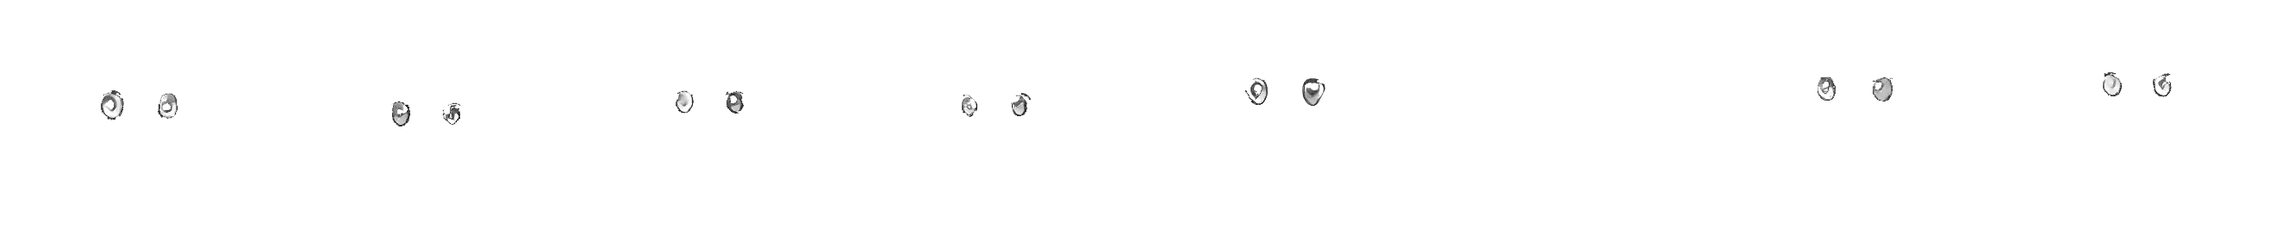
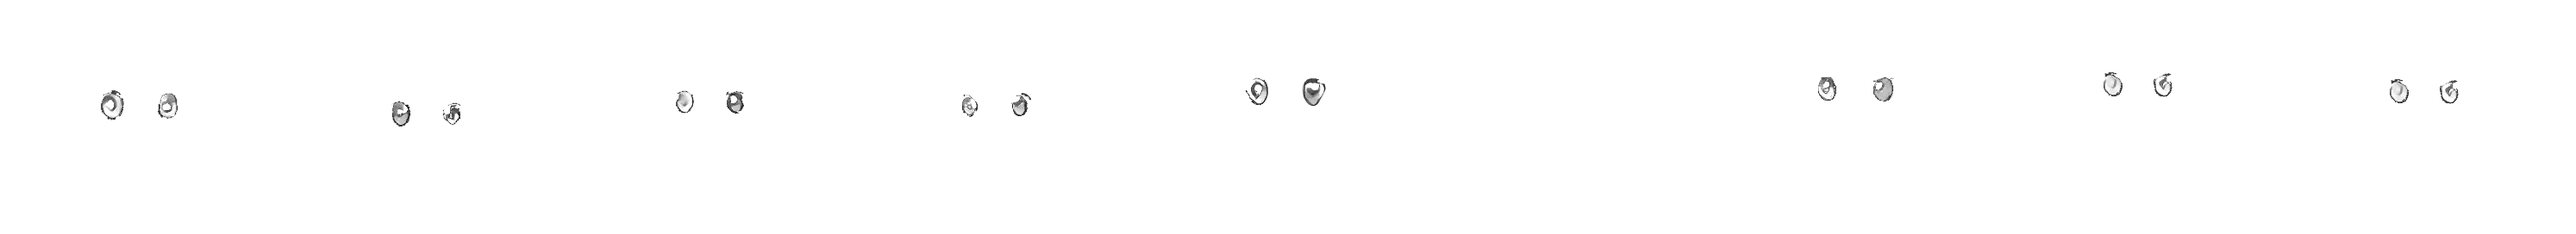
feat(hồ sơ): tóc bob vẽ tay như tóc ngắn; khuôn mặt đã chọn dán lên tranh (không còn đổi sang SVG); đổi tóc/áo giữ mặt
- Đầu ô 8: tóc bob trơn từ cô gái kimono (soi gương nửa trái bỏ hoa + búi, nối đỉnh tròn); mặt nạ tóc kimono bắt cả vệt bóng
- PaintedFaceSwap: dán faces.webp theo mắt, chỉ trong vùng da mặt (char-facemask.webp) nên không đè tóc/mũ
- DecorStudio: đổi tóc/áo/phụ kiện khi chưa chọn mặt → giữ mặt đang hiện (currentFaceId)
- Test: tóc bob, dán mặt, currentFaceId; E2E chọn tóc bob

diff --git a/lib/game/presets.ts b/lib/game/presets.ts
@@ -3,7 +3,7 @@
  * Món thiếu mua cả bộ qua `buyBundle` (một giao dịch, được cả bộ hoặc không món nào).
  */
 import type { Slot } from "./items";
-import { BODIES, HEAD_ANCHOR } from "./painted-data";
+import { BODIES, EYE_GEO, HEAD_ANCHOR } from "./painted-data";
 
 export interface Preset {
   id: string;
@@ -50,42 +50,64 @@ export function faceIndexOf(config: LookConfig): number {
 }
 
 export interface PaintedLook {
-  /** Ô tranh trong characters.webp (đầu / cả nhân vật) */
+  /** Ô đầu / cả nhân vật: 0–7 = characters.webp, 8 = tóc bob không hoa (chỉ có trong char-heads.webp) */
   index: number;
+  /** Mẫu gốc của ô (màu tóc/mắt/mặt/trang phục gốc) */
+  base: number;
   /** Thân thay theo trang phục: ô trong char-bodies.webp; null = giữ nguyên tranh */
   body: number | null;
+  /** Khuôn mặt dán lên tranh (chỉ số FACES); null = mặt của tranh */
+  face: number | null;
   /** itemId màu tóc / màu mắt cần tô lại trên tranh; null = giữ màu tranh */
   hairColor: string | null;
   eyes: string | null;
 }
 
+/** Đầu vẽ sẵn: ô tranh → kiểu tóc + phụ kiện của đầu đó; ô 8 = đầu cô gái kimono bỏ hoa (tóc bob trơn) */
+const HEADS: { cell: number; base: number; hair: string | null; accessory: string | null }[] = [
+  ...[0, 1, 4, 6, 7].map((i) => ({ cell: i, base: i, hair: PRESETS[i].items.hair ?? null, accessory: PRESETS[i].items.accessory ?? null })),
+  { cell: 8, base: 7, hair: "hair-bob", accessory: null },
+];
+
 /**
  * Vẽ bằng tranh của design (thay vì nhân vật SVG):
  * - trang phục liền đầu (hoodie tai mèo, giáp hiệp sĩ, đồ phi hành gia) → nguyên tranh mẫu đó;
- * - còn lại: kiểu tóc + phụ kiện trùng một mẫu lộ đầu (và mặt chưa chọn khác) → đầu của mẫu đó + thân theo trang phục
+ * - còn lại: kiểu tóc + phụ kiện trùng một đầu vẽ sẵn → đầu đó + thân theo trang phục
  *   (thân có sẵn hoặc trang phục tạo thêm trong char-bodies.webp), cổ ghép đúng đường cằm.
+ * Khuôn mặt đã chọn khác mặt của tranh → dán mặt đó lên vùng da mặt của tranh (không đè tóc/mũ).
  * Màu tóc / màu mắt khác mẫu thì tô lại ngay trên tranh.
  */
 export function paintedLook(config: LookConfig): PaintedLook | null {
   const outfit = config.outfit ?? null;
-  const recolor = (index: number, body: number | null): PaintedLook => {
-    const p = PRESETS[index].items;
+  const make = (index: number, base: number, body: number | null): PaintedLook => {
+    const p = PRESETS[base];
+    const fi = config.face && config.face !== p.id && index in EYE_GEO ? FACE_IDS.indexOf(config.face) : -1;
+    const eyeBase = fi >= 0 ? PRESETS.find((x) => x.id === FACE_IDS[fi])?.items.eyes : p.items.eyes;
     return {
       index,
+      base,
       body,
-      hairColor: config.hairColor && config.hairColor !== p.hairColor ? config.hairColor : null,
-      eyes: config.eyes && config.eyes !== p.eyes ? config.eyes : null,
+      face: fi >= 0 ? fi : null,
+      hairColor: config.hairColor && config.hairColor !== p.items.hairColor ? config.hairColor : null,
+      eyes: config.eyes && config.eyes !== eyeBase ? config.eyes : null,
     };
   };
   const whole = PRESETS.findIndex((p, i) => !(i in HEAD_ANCHOR) && p.items.outfit === outfit);
-  if (whole >= 0) return recolor(whole, null);
-  const head = PRESETS.findIndex(
-    (p, i) => i in HEAD_ANCHOR && faceFits(config, p) && (["hair", "accessory"] as const).every((k) => (config[k] ?? null) === (p.items[k] ?? null)),
-  );
-  if (head < 0) return null;
-  if (PRESETS[head].items.outfit === outfit) return recolor(head, null);
+  if (whole >= 0) return make(whole, whole, null);
+  const head = HEADS.find((h) => h.hair === (config.hair ?? null) && h.accessory === (config.accessory ?? null));
+  if (!head) return null;
+  if (head.cell < PRESETS.length && PRESETS[head.cell].items.outfit === outfit) return make(head.cell, head.base, null);
   const body = BODIES.findIndex((b) => b.outfit === outfit);
-  return body < 0 ? null : recolor(head, body);
+  return body < 0 ? null : make(head.cell, head.base, body);
+}
+
+/** Khuôn mặt đang hiện của cấu hình (id trong FACES) — để đổi tóc / áo vẫn giữ mặt; null nếu mặt bị che (nhà du hành, hiệp sĩ) */
+export function currentFaceId(config: LookConfig): string | null {
+  const look = paintedLook(config);
+  if (!look) return FACES[faceIndexOf(config)].id;
+  if (look.face !== null) return FACES[look.face].id;
+  const id = PRESETS[look.base].id;
+  return FACE_IDS.includes(id) ? id : null;
 }
 
 /** Chỉ số mẫu nhân vật mà cấu hình trùng khớp hoàn toàn (tóc, màu tóc, mắt, trang phục, phụ kiện, mặt); -1 nếu tự chỉnh khác mẫu */

diff --git a/tests/game/painted-look.test.ts b/tests/game/painted-look.test.ts
@@ -5,7 +5,7 @@ import { test, describe } from "node:test";
 import assert from "node:assert/strict";
 import { existsSync } from "node:fs";
 import path from "node:path";
-import { FACES, FACE_IDS, PRESETS, faceIndexOf, paintedLook, presetIndexOf } from "@/lib/game/presets";
+import { FACES, FACE_IDS, PRESETS, currentFaceId, faceIndexOf, paintedLook, presetIndexOf } from "@/lib/game/presets";
 import { sanitizeAvatar } from "@/lib/game/avatar";
 import { BODIES } from "@/lib/game/painted-data";
 import { ITEMS } from "@/lib/game/items";
@@ -15,13 +15,13 @@ const student = preset("preset-student").items;
 
 describe("paintedLook — tô màu trên tranh mẫu", () => {
   test("trùng mẫu hoàn toàn → tranh gốc, không tô", () => {
-    assert.deepEqual(paintedLook(student), { index: 0, body: null, hairColor: null, eyes: null });
+    assert.deepEqual(paintedLook(student), { index: 0, base: 0, body: null, face: null, hairColor: null, eyes: null });
     assert.equal(presetIndexOf(student), 0);
   });
 
   test("chỉ đổi màu tóc / màu mắt → vẫn là tranh Học sinh nam, tô lại màu (lỗi cũ: chuyển sang nhân vật SVG khác hẳn)", () => {
     const cfg = { ...student, hairColor: "hc-pink", eyes: "eye-blue" };
-    assert.deepEqual(paintedLook(cfg), { index: 0, body: null, hairColor: "hc-pink", eyes: "eye-blue" });
+    assert.deepEqual(paintedLook(cfg), { index: 0, base: 0, body: null, face: null, hairColor: "hc-pink", eyes: "eye-blue" });
     assert.equal(presetIndexOf(cfg), -1, "không còn trùng mẫu hoàn toàn → ô mẫu không báo Đang dùng");
   });
 
@@ -49,9 +49,29 @@ describe("paintedLook — tô màu trên tranh mẫu", () => {
     assert.equal(paintedLook({ ...student, accessory: "acc-crown" }), null);
   });
 
-  test("chọn mặt khác mặt của mẫu → không vẽ tranh mẫu; chọn đúng mặt mẫu → vẫn tranh", () => {
-    assert.equal(paintedLook({ ...student, face: "preset-kimono" }), null);
+  test("tóc bob không cài hoa → đầu vẽ tóc bob trơn (ô 8), không ra nhân vật SVG (lỗi cũ: tóc bob xấu hơn tóc ngắn)", () => {
+    const bob = paintedLook({ ...student, hair: "hair-bob", outfit: "outfit-hoodie", hairColor: "hc-blonde", face: "preset-student" });
+    assert.equal(bob?.index, 8);
+    assert.equal(PRESETS[bob!.base].id, "preset-kimono");
+    assert.equal(BODIES[bob!.body!].outfit, "outfit-hoodie");
+    assert.equal(bob?.face, FACE_IDS.indexOf("preset-student"), "giữ mặt học sinh trên tóc bob");
+    assert.equal(bob?.hairColor, "hc-blonde");
+    assert.equal(paintedLook({ ...preset("preset-kimono").items })?.index, 7, "cài hoa → nguyên tranh kimono");
+  });
+
+  test("currentFaceId: mặt đang hiện (để đổi tóc / áo vẫn giữ mặt)", () => {
+    assert.equal(currentFaceId(student), "preset-student");
+    assert.equal(currentFaceId({ ...student, face: "preset-gamer", outfit: "outfit-tee" }), "preset-gamer");
+    assert.equal(currentFaceId(preset("preset-astro").items), null);
+  });
+
+  test("chọn mặt khác mặt của mẫu → dán mặt đó lên tranh (không đổi sang SVG); không còn là mẫu", () => {
+    const look = paintedLook({ ...student, face: "preset-kimono", eyes: "eye-green" });
+    assert.equal(look?.index, 0);
+    assert.equal(look?.face, FACE_IDS.indexOf("preset-kimono"));
+    assert.equal(look?.eyes, "eye-green", "mắt tô trên mặt đã dán");
     assert.equal(presetIndexOf({ ...student, face: "preset-kimono" }), -1);
+    assert.equal(paintedLook({ ...preset("preset-astro").items, face: "preset-kimono" })?.face, null, "nhà du hành che kín mặt → không dán");
     assert.equal(paintedLook({ ...student, face: "preset-student" })?.index, 0);
     assert.equal(presetIndexOf({ ...student, face: "preset-student" }), 0);
   });
@@ -66,7 +86,7 @@ describe("Khuôn mặt (face)", () => {
   test("mặt chỉ lấy từ mẫu có lộ mặt, ảnh mặt và mặt nạ tô màu có trong public/studio", () => {
     assert.ok(FACE_IDS.every((id) => PRESETS.some((p) => p.id === id)));
     assert.ok(!FACE_IDS.includes("preset-astro") && !FACE_IDS.includes("preset-knight"));
-    for (const f of ["faces.webp", "faces-eyes.webp", "char-hair.webp", "char-eyes.webp"]) {
+    for (const f of ["faces.webp", "faces-eyes.webp", "char-hair.webp", "char-eyes.webp", "char-heads.webp", "char-bodies.webp", "char-facemask.webp"]) {
       assert.ok(existsSync(path.join(process.cwd(), "public/studio", f)), f);
     }
   });

diff --git a/components/avatar/Chibi.tsx b/components/avatar/Chibi.tsx
@@ -1,7 +1,7 @@
 import type { ReactNode } from "react";
 import { ITEM_BY_ID } from "@/lib/game/items";
 import { FACES, PRESETS, faceIndexOf, paintedLook } from "@/lib/game/presets";
-import { BODIES, BODY_H, HEAD_ANCHOR } from "@/lib/game/painted-data";
+import { BODIES, BODY_H, EYE_GEO, HEAD_ANCHOR, HEAD_CELLS_N } from "@/lib/game/painted-data";
 
 const CHAR_STRIP = "/studio/characters.webp";
 // Mặt nạ tóc / tròng mắt của tranh + mặt vẽ tay đã căn theo mắt SVG (scripts/studio/gen-face-assets.py)
@@ -10,6 +10,8 @@ const CHAR_EYES = "/studio/char-eyes.webp";
 // Đầu rời (cắt ở cằm) + thân theo trang phục → thay đồ vẫn giữ đầu của nhân vật
 const CHAR_HEADS = "/studio/char-heads.webp";
 const CHAR_BODIES = "/studio/char-bodies.webp";
+const CHAR_FACEMASK = "/studio/char-facemask.webp"; // vùng da mặt của từng đầu (dán khuôn mặt đã chọn)
+const MASK_W = HEAD_CELLS_N * 332;
 const FACE_STRIP = "/studio/faces.webp";
 const FACE_EYES = "/studio/faces-eyes.webp";
 const FACE_W = 204;
@@ -131,7 +133,7 @@ export function Chibi({ config, size = 120, className, title, painted = true }: 
         // Tranh nhân vật của design: ô 332×272 trong dải 8 ô, canh đáy khung
         <svg
           x="-12" y="10" width="144" height="128" viewBox={`${look.index * 332} 0 332 272`} preserveAspectRatio="xMidYMax meet"
-          data-painted={PRESETS[look.index].id} data-hair={look.hairColor ?? undefined} data-eyes={look.eyes ?? undefined}
+          data-painted={PRESETS[look.base].id} data-head={look.index} data-hair={look.hairColor ?? undefined} data-eyes={look.eyes ?? undefined}
         >
           {look.body === null ? (
             <image href={CHAR_STRIP} width="2656" height="272" />
@@ -146,11 +148,12 @@ export function Chibi({ config, size = 120, className, title, painted = true }: 
               >
                 <image href={CHAR_BODIES} width={BODIES.length * 332} height={BODY_H} />
               </svg>
-              <image href={CHAR_HEADS} width="2656" height="272" />
+              <image href={CHAR_HEADS} width={MASK_W} height="272" />
             </>
           )}
-          {look.hairColor && <Tint id={`${uid}-th`} href={CHAR_HAIR} x={look.index * 332} w={332} h={272} total={2656} fill={tintOf(look.hairColor, uid)} />}
-          {look.eyes && <Tint id={`${uid}-te`} href={CHAR_EYES} x={look.index * 332} w={332} h={272} total={2656} fill={tintOf(look.eyes, uid)} />}
+          {look.face !== null && <PaintedFaceSwap uid={uid} cell={look.index} face={look.face} eyes={look.eyes} />}
+          {look.hairColor && <Tint id={`${uid}-th`} href={CHAR_HAIR} x={look.index * 332} w={332} h={272} total={MASK_W} fill={tintOf(look.hairColor, uid)} />}
+          {look.eyes && look.face === null && <Tint id={`${uid}-te`} href={CHAR_EYES} x={look.index * 332} w={332} h={272} total={MASK_W} fill={tintOf(look.eyes, uid)} />}
         </svg>
       ) : (
       <>
@@ -236,6 +239,28 @@ function Tint({ id, href, x, w, h, total, fill }: { id: string; href: string; x:
       </mask>
       <rect x={x} y="0" width={w} height={h} fill={fill} mask={`url(#${id})`} />
       <image href={href} width={total} height={h} style={{ mixBlendMode: "multiply" }} />
+    </g>
+  );
+}
+
+/**
+ * Dán khuôn mặt đã chọn (faces.webp, căn theo mắt) lên tranh: co theo khoảng cách hai mắt của đầu,
+ * chỉ hiện trong vùng da mặt của đầu đó (char-facemask.webp) nên không đè tóc, mũ, tai nghe.
+ */
+function PaintedFaceSwap({ uid, cell, face, eyes }: { uid: string; cell: number; face: number; eyes: string | null }) {
+  const [gx, gy, dist] = EYE_GEO[cell];
+  const s = dist / 29; // px tranh trên một đơn vị của mặt SVG
+  return (
+    <g>
+      <mask id={`${uid}-fm`} maskUnits="userSpaceOnUse" x={cell * 332} y="0" width="332" height="272" style={{ maskType: "alpha" }}>
+        <image href={CHAR_FACEMASK} width={MASK_W} height="272" />
+      </mask>
+      <g mask={`url(#${uid}-fm)`}>
+        <svg x={cell * 332 + gx - 34 * s} y={gy - 17 * s} width={68 * s} height={46 * s} viewBox={`${face * FACE_W} 0 ${FACE_W} ${FACE_H}`} data-face={FACES[face].id}>
+          <image href={FACE_STRIP} width={FACE_W * FACES.length} height={FACE_H} />
+          {eyes && <Tint id={`${uid}-tfp`} href={FACE_EYES} x={face * FACE_W} w={FACE_W} h={FACE_H} total={FACE_W * FACES.length} fill={tintOf(eyes, uid)} />}
+        </svg>
+      </g>
     </g>
   );
 }

diff --git a/components/profile/DecorStudio.tsx b/components/profile/DecorStudio.tsx
@@ -9,7 +9,7 @@ import { signOut } from "next-auth/react";
 import { cn } from "@/lib/utils";
 import { buyBundle, saveAvatar } from "@/actions/avatar";
 import { ITEM_BY_ID, itemsOfSlot, type Item, type Slot } from "@/lib/game/items";
-import { FACES, PRESETS, faceIndexOf, paintedLook, presetIndexOf, type Preset } from "@/lib/game/presets";
+import { FACES, PRESETS, currentFaceId, presetIndexOf, type Preset } from "@/lib/game/presets";
 import type { AvatarConfig } from "@/lib/game/avatar";
 import { play } from "@/lib/sound";
 import { Chibi, FxShape } from "@/components/avatar/Chibi";
@@ -54,6 +54,7 @@ const fmt = (n: number) => n.toLocaleString("vi-VN");
 const priceText = (xu: number, gem: number) => [xu ? `${fmt(xu)} xu` : "", gem ? `${gem} ngọc` : ""].filter(Boolean).join(" + ") || "0 xu";
 const noFx = { background: null, frame: null, effect: null } as const;
 const ACCENT = "#5B2BD6";
+const KEEP_FACE: Slot[] = ["hair", "outfit", "accessory"];
 
 /** Màu ruy băng danh hiệu theo canvas (nền, chữ); món khác lấy theo độ hiếm */
 const TITLE_COLORS: Record<string, [string, string]> = {
@@ -109,7 +110,8 @@ export default function DecorStudio({ user, config: initial, owned: ownedInit, w
   const put = (slot: Slot, id: string | null) => {
     play("click");
     setJustSaved(false);
-    setConfig((c) => ({ ...c, [slot]: id }));
+    // Đổi tóc / áo / phụ kiện mà chưa chọn mặt riêng → giữ mặt đang hiện (không bị đổi sang mặt của tranh khác)
+    setConfig((c) => ({ ...c, ...(!c.face && KEEP_FACE.includes(slot) ? { face: currentFaceId(c) } : {}), [slot]: id }));
   };
   const putFace = (id: string) => {
     play("click");
@@ -117,8 +119,7 @@ export default function DecorStudio({ user, config: initial, owned: ownedInit, w
     setConfig((c) => ({ ...c, face: id }));
   };
   // Mặt đang hiện: theo tranh mẫu (khi dáng trùng mẫu) hoặc mặt đã chọn / mặc định theo kiểu tóc
-  const look = paintedLook(config);
-  const faceNow = look ? PRESETS[look.index].id : FACES[faceIndexOf(config)].id;
+  const faceNow = currentFaceId(config);
   const applyPreset = (p: Preset) => {
     play("click");
     setJustSaved(false);

diff --git a/lib/game/painted-data.ts b/lib/game/painted-data.ts
@@ -1,7 +1,11 @@
 /** Sinh bởi scripts/studio/gen-face-assets.py — không sửa tay. Mốc ghép đầu/thân của tranh nhân vật (đơn vị px của ô 332×272). */
 export const BODY_H = 312;
 /** Ô trong characters.webp có đầu rời (char-heads.webp) → [tâm x, đường cằm y] */
-export const HEAD_ANCHOR: Record<number, [number, number]> = { 0: [162, 173], 1: [163, 176], 4: [163, 157], 6: [160, 153], 7: [155, 144] };
+export const HEAD_ANCHOR: Record<number, [number, number]> = { 0: [162, 173], 1: [163, 176], 4: [163, 157], 6: [160, 153], 7: [155, 144], 8: [155, 152] };
+/** Số ô của char-heads / char-hair / char-eyes / char-facemask (8 ô tranh + ô 8 = tóc bob không hoa) */
+export const HEAD_CELLS_N = 9;
+/** Mắt của từng ô (dán khuôn mặt đã chọn): [giữa hai mắt x, y, khoảng cách hai mắt] */
+export const EYE_GEO: Record<number, [number, number, number]> = { 0: [162.3, 122.4, 64.4], 1: [162.7, 132.3, 60.4], 2: [159.1, 118.7, 58.2], 3: [157.7, 122.4, 59.7], 4: [163.1, 107.0, 63.2], 6: [159.8, 103.8, 65.6], 7: [155.1, 99.2, 58.4], 8: [155.1, 107.2, 58.4] };
 /** Thân theo trang phục: thứ tự ô trong char-bodies.webp, [tâm x, đường cằm y] của tranh gốc */
 export const BODIES: { outfit: string; anchor: [number, number] }[] = [
   { outfit: "outfit-uniform", anchor: [162, 173] },

diff --git a/scripts/studio/gen-face-assets.py b/scripts/studio/gen-face-assets.py
@@ -54,6 +54,17 @@ for i, area in enumerate(areas, 1):
         eyes |= m
         eye_at.setdefault(c, []).append((cx, cy))
 hair &= ~((cell_of == 7) & (xx % CELL > 222) & (yy < 80))  # hoa cài của cô gái kimono
+# vệt bóng sáng nằm lọt trong tóc (tóc kimono) cũng là tóc — không thì đổi màu còn dải xám
+_skin = (a > 0.5) & (mx > 0.8) & (sat > 0.05) & (sat < 0.4) & ((hue < 40) | (hue > 340))
+_enclosed = nd.binary_fill_holes(nd.binary_closing(hair, iterations=3)) & (a > 0.5) & ~_skin & ~nd.binary_dilation(eyes, iterations=6)
+_enclosed &= (sat < 0.25) | ((hue < 50) | (hue > 330))  # chỉ xám / nâu (không lấy hoa, mũ màu)
+hair |= _enclosed & ~((cell_of == 7) & (xx % CELL > 222) & (yy < 80))
+# Tóc kimono màu tím xám (lọc nâu chỉ bắt phần tối): mọi điểm trên đầu không phải da / mắt / hoa / trắng / cổ áo
+_c7 = cell_of == 7
+_dx7 = np.abs(xx % CELL - 155)
+_white = (mx > 0.88) & (sat < 0.12)
+hair |= _c7 & (a > 0.5) & (yy < 200) & ~nd.binary_fill_holes(_skin & _c7) & ~_skin & ~nd.binary_dilation(eyes, iterations=6) \
+    & ~((xx % CELL > 205) & (yy < 100)) & ~_white & ((yy < 146) | ((_dx7 > 42) & (mx < 0.6) & (yy < 185))) & (_dx7 < 95)
 
 
 def shade(mask, pct):
@@ -265,6 +276,95 @@ derived("outfit-dress", 7, dress)
 derived("outfit-sport", 0, sport)
 derived("outfit-royal", 1, royal)
 
+# ---- Đầu biến thể ô 8: tóc bob không hoa / búi (từ cô gái kimono): soi gương nửa trái (tóc bob sạch) sang nửa phải,
+#      giữ da mặt + mắt gốc ở nửa phải để mắt không bị lật
+ly8, lx8 = np.mgrid[0:H, 0:CELL]
+AX = int(round(anchor[7][0]))  # trục đối xứng = giữa hai mắt
+def mirror(arr):
+    out = arr.copy()
+    src = 2 * AX - lx8
+    ok = (lx8 > AX) & (src >= 0)
+    out[ok] = arr[ly8[ok], src[ok]]
+    out[(lx8 > AX) & (src < 0)] = 0
+    return out
+h7 = heads[:, 7 * CELL:8 * CELL]
+hm7 = hair[:, 7 * CELL:8 * CELL]
+skin7 = (nd.binary_fill_holes(skin_all[:, 7 * CELL:8 * CELL]) | nd.binary_dilation(eyes[:, 7 * CELL:8 * CELL], iterations=9)) & (np.abs(lx8 - AX) < 60) & (ly8 > anchor[7][2] - 30)  # không lấy cánh hoa
+hm_m = mirror(hm7)
+take = (lx8 > AX + 4) & ~(skin7 & ~hm_m & (ly8 < anchor[7][1]))  # nửa phải: lấy ảnh soi gương trừ da mặt gốc
+h8 = h7.copy(); h8[take] = mirror(h7)[take]
+hm8 = hm7.copy(); hm8[take] = hm_m[take]
+heads = np.concatenate([heads, h8], 1)
+c8 = hair_sh[:, 7 * CELL:8 * CELL].copy(); c8[take] = mirror(hair_sh[:, 7 * CELL:8 * CELL])[take]
+hair_ext = np.concatenate([hair_sh, c8], 1)
+e8 = eye_sh[:, 7 * CELL:8 * CELL].copy(); e8[take & ~skin7] = 0
+eye_ext = np.concatenate([eye_sh, e8], 1)
+flower = take  # vùng đổi ở ô 8 (dùng cho mặt nạ mặt bên dưới)
+Image.fromarray((hair_ext * 255).astype(np.uint8), "RGBA").save(os.path.join(OUT, "char-hair.webp"), lossless=True)
+Image.fromarray((eye_ext * 255).astype(np.uint8), "RGBA").save(os.path.join(OUT, "char-eyes.webp"), lossless=True)
+
+# ---- Vùng mặt từng đầu (da + mắt, trừ tóc) → dán khuôn mặt đã chọn lên tranh mà không đè tóc/mũ/tai nghe
+lab_s, _ = nd.label(skin_all)
+SWAP_CELLS = [0, 1, 2, 3, 4, 6, 7]
+facemask = np.zeros((H, W + CELL))
+eye_geo = {}
+for c in SWAP_CELLS:
+    (lx_, ly_), (rx_, ry_) = sorted(eye_at[c])
+    mxp, myp = (lx_ + rx_) / 2, (ly_ + ry_) / 2
+    box = lab_s[int(myp + 12):int(myp + 35), int(mxp - 20):int(mxp + 20)]
+    l = np.bincount(box[box > 0]).argmax()
+    m = nd.binary_fill_holes(lab_s == l) & (yy < myp + 62)
+    m |= nd.binary_dilation(eyes & (cell_of == c), iterations=9)
+    m &= ~nd.binary_dilation(hair, iterations=1) & (cell_of == c)
+    facemask[:, :W] = np.maximum(facemask[:, :W], nd.gaussian_filter(m.astype(float), 0.8) * m.astype(float) + m * 0)
+    eye_geo[c] = (round(mxp - c * CELL, 1), round(myp, 1), round(float(np.hypot(rx_ - lx_, ry_ - ly_)), 1))
+facemask[:, 8 * CELL:] = facemask[:, 7 * CELL:8 * CELL] * ~(flower & hm8)
+eye_geo[8] = eye_geo[7]
+anchor[8] = anchor[7]
+HEAD_CELLS = HEAD_CELLS + [8]
+
+# Đỉnh tóc kimono chạm mép trên ô (bị phẳng) → hạ ô 8 xuống SHIFT px rồi vẽ nối đỉnh tròn theo cung đầu
+SHIFT = 8
+def shift8(arr):
+    c8_ = arr[:, 8 * CELL:].copy()
+    arr[:, 8 * CELL:] = 0
+    arr[SHIFT:, 8 * CELL:] = c8_[:-SHIFT]
+for arr in (heads, hair_ext, eye_ext):
+    shift8(arr)
+fm8 = facemask[:, 8 * CELL:].copy(); facemask[:, 8 * CELL:] = 0; facemask[SHIFT:, 8 * CELL:] = fm8[:-SHIFT]
+top = heads[SHIFT, 8 * CELL:]
+xs = np.where(top[:, 3] > 0.5)[0]
+if len(xs):
+    x0, x1 = xs.min(), xs.max()
+    w0, cxm, R = (x1 - x0) / 2, (x0 + x1) / 2, 95.0
+    dd = np.sqrt(max(R * R - w0 * w0, 0))
+    for hgt in range(1, SHIFT + 1):
+        y = SHIFT - hgt
+        w = np.sqrt(max(R * R - (dd + hgt) ** 2, 0))
+        for x in range(int(np.ceil(cxm - w)), int(cxm + w) + 1):
+            edge = x < cxm - w + 2 or x > cxm + w - 2
+            src = heads[SHIFT + 2, 8 * CELL + x].copy()  # màu tóc ngay dưới (bỏ qua viền)
+            heads[y, 8 * CELL + x] = (0.14, 0.11, 0.1, 1) if edge else src
+            hair_ext[y, 8 * CELL + x] = (0.3, 0.3, 0.3, 1) if edge else hair_ext[SHIFT + 2, 8 * CELL + x]
+        # viền đỉnh
+        heads[y, 8 * CELL + int(np.ceil(cxm - w)):8 * CELL + int(cxm + w) + 1][:1] = (0.14, 0.11, 0.1, 1)
+    xs_top = np.where(heads[0, 8 * CELL:, 3] > 0.5)[0]
+    heads[0, 8 * CELL + xs_top] = (0.14, 0.11, 0.1, 1)
+    hair_ext[0, 8 * CELL + xs_top] = (0.3, 0.3, 0.3, 1)
+    # bỏ viền phẳng cũ ở hàng SHIFT (giờ nằm giữa tóc)
+    for r in range(SHIFT, SHIFT + 2):
+        row = heads[r, 8 * CELL:]
+        dark = (row[:, :3].mean(1) < 0.25) & (row[:, 3] > 0.5)
+        idx = np.where(dark)[0]
+        idx = idx[(idx > x0 + 3) & (idx < x1 - 3)]
+        heads[r, 8 * CELL + idx] = heads[SHIFT + 3, 8 * CELL + idx]
+        hair_ext[r, 8 * CELL + idx] = hair_ext[SHIFT + 3, 8 * CELL + idx]
+Image.fromarray((hair_ext * 255).astype(np.uint8), "RGBA").save(os.path.join(OUT, "char-hair.webp"), lossless=True)
+Image.fromarray((eye_ext * 255).astype(np.uint8), "RGBA").save(os.path.join(OUT, "char-eyes.webp"), lossless=True)
+anchor[8] = (anchor[7][0], anchor[7][1] + SHIFT, anchor[7][2] + SHIFT)
+eye_geo[8] = (eye_geo[7][0], round(eye_geo[7][1] + SHIFT, 1), eye_geo[7][2])
+fm = np.zeros((H, W + CELL, 4)); fm[..., :3] = 1; fm[..., 3] = np.clip(facemask, 0, 1)
+Image.fromarray((fm * 255).astype(np.uint8), "RGBA").save(os.path.join(OUT, "char-facemask.webp"), lossless=True)
 Image.fromarray((np.clip(heads, 0, 1) * 255).astype(np.uint8), "RGBA").save(os.path.join(OUT, "char-heads.webp"), lossless=True)
 strip = np.concatenate(bodies, 1)
 Image.fromarray((np.clip(strip, 0, 1) * 255).astype(np.uint8), "RGBA").save(os.path.join(OUT, "char-bodies.webp"), lossless=True)
@@ -273,6 +373,10 @@ ts = [
     f"export const BODY_H = {H + EXT};",
     "/** Ô trong characters.webp có đầu rời (char-heads.webp) → [tâm x, đường cằm y] */",
     "export const HEAD_ANCHOR: Record<number, [number, number]> = { " + ", ".join(f"{c}: [{anchor[c][0]}, {anchor[c][1]}]" for c in HEAD_CELLS) + " };",
+    "/** Số ô của char-heads / char-hair / char-eyes / char-facemask (8 ô tranh + ô 8 = tóc bob không hoa) */",
+    f"export const HEAD_CELLS_N = {W // CELL + 1};",
+    "/** Mắt của từng ô (dán khuôn mặt đã chọn): [giữa hai mắt x, y, khoảng cách hai mắt] */",
+    "export const EYE_GEO: Record<number, [number, number, number]> = { " + ", ".join(f"{c}: [{g[0]}, {g[1]}, {g[2]}]" for c, g in sorted(eye_geo.items())) + " };",
     "/** Thân theo trang phục: thứ tự ô trong char-bodies.webp, [tâm x, đường cằm y] của tranh gốc */",
     "export const BODIES: { outfit: string; anchor: [number, number] }[] = [",
     *[f'  {{ outfit: "{o}", anchor: [{an[0]}, {an[1]}] }},' for o, an in zip(body_ids, body_anchor)],
